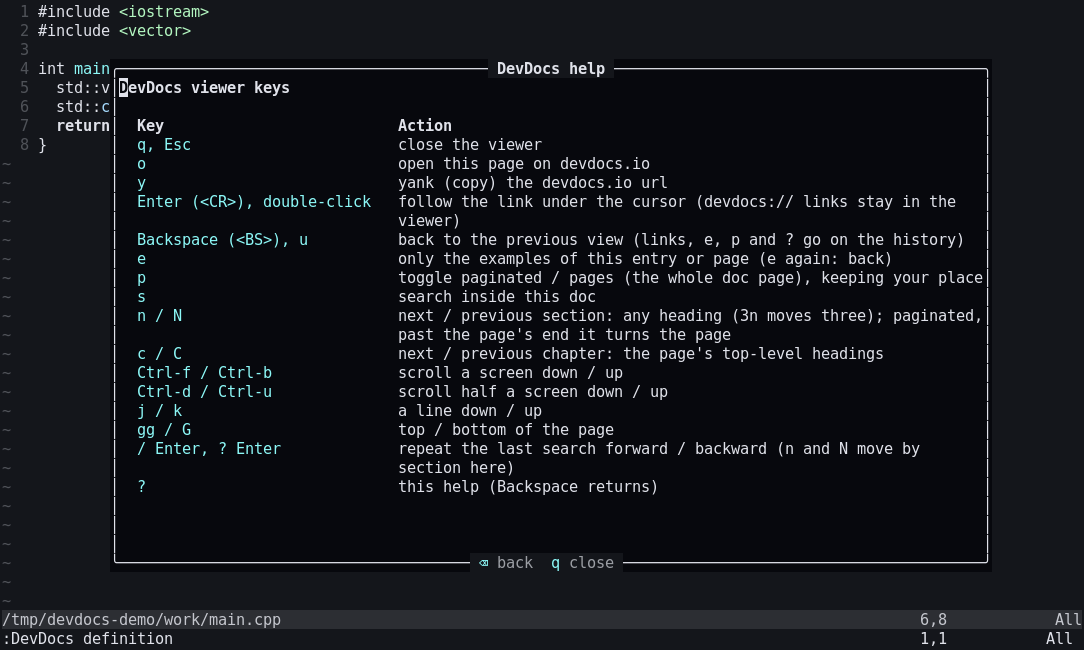
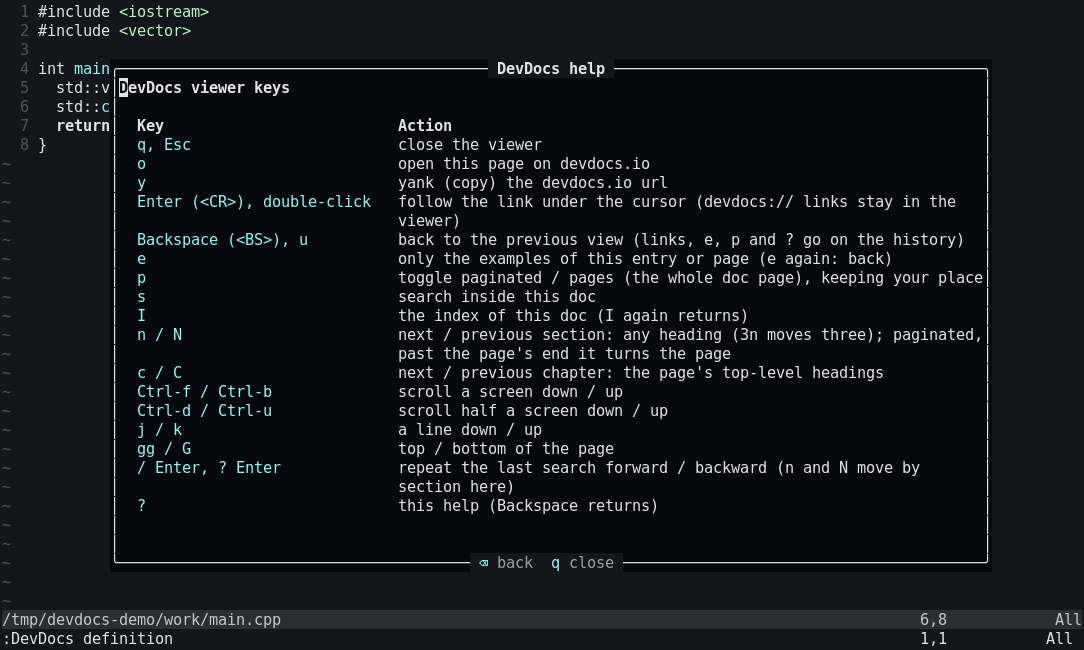
docs: re-capture README media for the index view and the new hints
Re-captured (same file names, README refs unchanged):
- lookup-demo.gif, viewer-paging.gif, viewer-examples.png: viewer footer now shows `I index`
- viewer-help.png: help table has the new `I` row (the index of this doc)
- list-demo.gif, list-apply.png: manager hint line now shows `⏎ index  o browser`
- new index.gif: `:DevDocs open` index with types and counts, expand, `}`, `/insert` filter, open table.insert, `I` back and forth; embedded in the README after "Inside the index"

capture.sh: new `index` shot, last frame now held 2.3 s (was 1.5 s).
minimal_init.lua: switch off xterm's modifyOtherKeys so an xdotool-typed `}` reaches the plugin's mapping.
state file: index.gif added to screenshots files.

diff --git a/README.md b/README.md
@@ -218,6 +218,8 @@ yank the devdocs.io url of the entry under the cursor. An entry opens in the
 viewer; `<BS>` (or `u`) returns to the index as you left it. Docs with a single type
 list their entries directly. Keys: `?`.
 
+![:DevDocs open on a Lua file: the index of lua~5.4 with its types and entry counts, a type expanded, the next type with }, the filter /insert, table.insert opened in the viewer, I back to the index and I again to the page](docs/media/index.gif)
+
 ![Looking up assert in the Lua manual: it opens paginated with the page index (180/256) in the title and p pages in the footer, n turns the page twice, c jumps to the next chapter, p shows the whole page (p paginated), p goes back to the paginated view](docs/media/viewer-paging.gif)
 
 ![The ? help in the viewer: an aligned Key and Action table with a bold header row and the keys spelled out, such as Backspace (<BS>)](docs/media/viewer-help.png)
